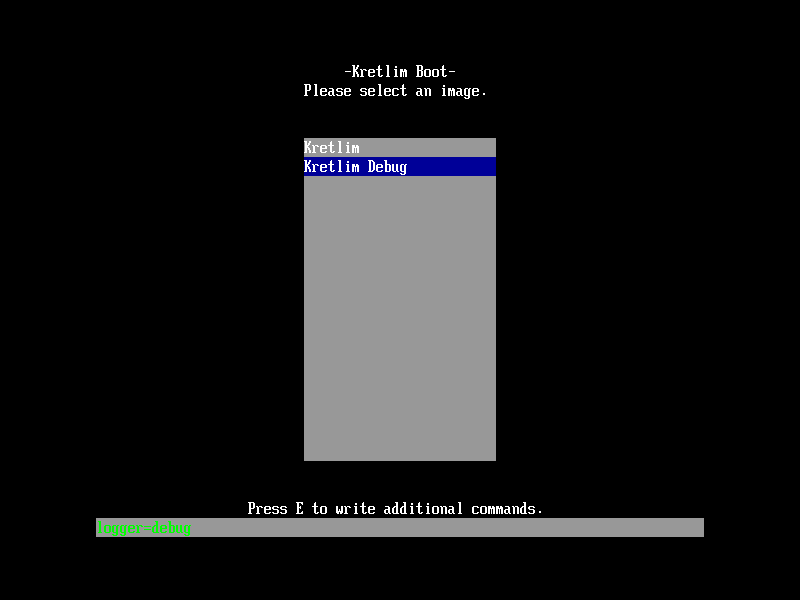
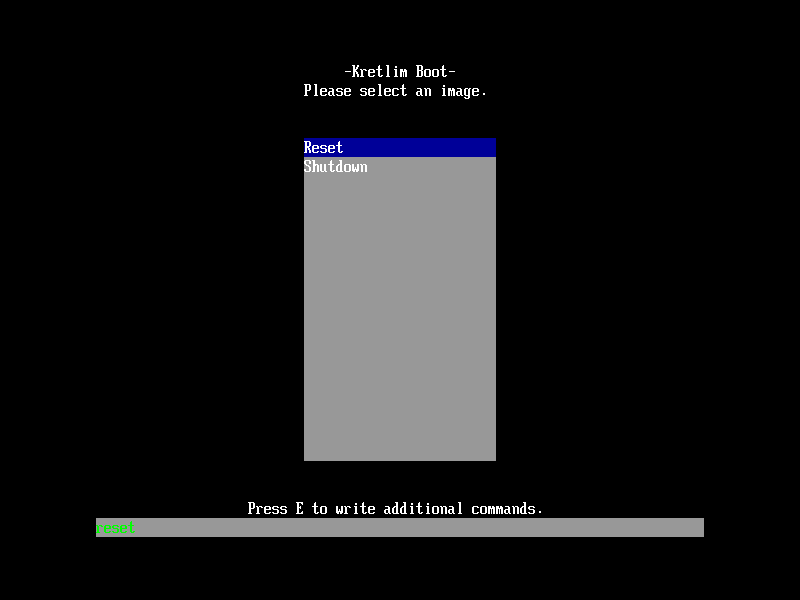
Updated some stuff

Changed region(s): [[0.375, 0.21, 0.625, 0.3], [0.125, 0.87, 0.25, 0.9]]

diff --git a/src/main.c b/src/main.c
@@ -17,11 +17,17 @@ static boot_config_t* get_boot_config() {
 
     boot_config_t* config = calloc(sizeof(boot_config_t) + sizeof(boot_entry_t) * 2, 1);
     config->default_option = 0;
-    config->entry_count = 1;
+    config->entry_count = 2;
+
     config->entries[0].size = sizeof(boot_entry_t);
     memcpy(config->entries[0].name, L"Reset", sizeof(L"Reset"));
     memcpy(config->entries[0].filename, L"shutdown.elf", sizeof(L"shutdown.elf"));
     memcpy(config->entries[0].command_line, L"reset", sizeof(L"reset"));
+
+    config->entries[1].size = sizeof(boot_entry_t);
+    memcpy(config->entries[1].name, L"Shutdown", sizeof(L"Shutdown"));
+    memcpy(config->entries[1].filename, L"shutdown.elf", sizeof(L"shutdown.elf"));
+    memcpy(config->entries[1].command_line, L"DOESN'T WORK", sizeof(L"DOESN'T WORK"));
 
     return config;
 }

diff --git a/README.md b/README.md
@@ -8,9 +8,28 @@ You can find the [boot protocol specs here](boot-protocol.md)
 
 ## Current Features
 * cool looking boot menu
-  * you can choose and edit the command line options of each entry
+    * allows to select between different boot options
+    * allows to modify the command line for each option
+* kernel loading
+    * can boot elf64 kernels
+        * only identity mapping support currently
+* boot info that contains:
+    * full EFI Memory Map
+    * the framebuffer address and size
+    * command line options
 
 ## Soon:tm:
-* actually loading the kernel
 * loading the boot list from a file
   * and a tool to create such file
+
+## Building
+
+You will need
+* clang
+* qemu (for running)
+
+All output binaries will be located in `bin`, all intermidiate files will be located in `build`
+
+To build the main bootloader simply run `make` and you should get the build EFI file in the `bin` folder
+
+To run in qemu you can use `make qemu`, this will create an `image` folder where it will put everything it needs and run qemu. This will also build the shutdown module.

diff --git a/boot-protocol.md b/boot-protocol.md
@@ -8,9 +8,13 @@ One note worth mentioning is that all of the boot info structure, the efi memory
 
 ### CPU Mode
 * long mode
+* interrupts are off
 * nx bit enabled if possible
 
-### GDT, TSS and IDT
+### IDT
+will be nullified
+
+### GDT, TSS
 Same as UEFI state after ExitBootServices
 
 ### Paging
